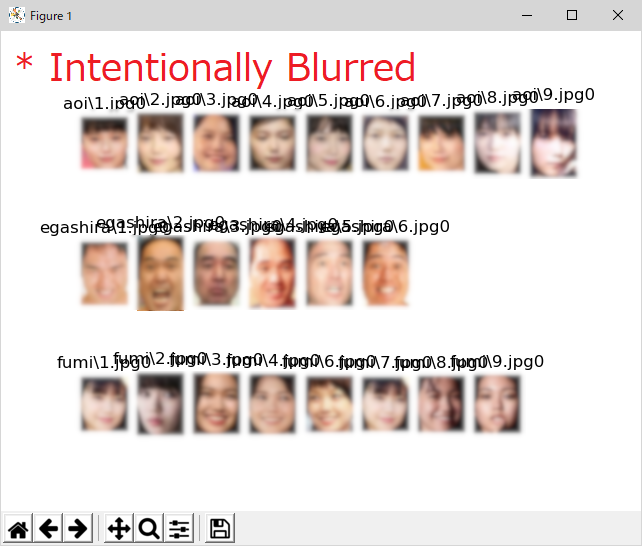
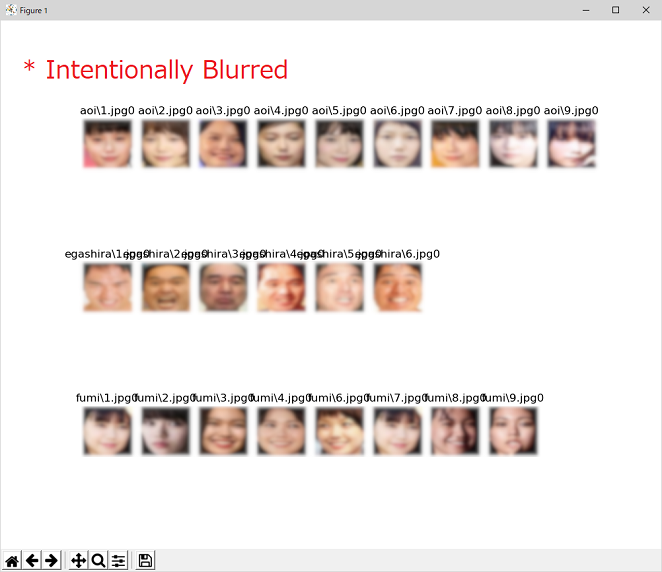
changed display size of db window

diff --git a/face-feature-visualization.py b/face-feature-visualization.py
@@ -69,11 +69,12 @@ def displayFacesInDB(face_db):
     for person in face_db:
         if len(person)>max_faces:
             max_faces = len(person)
-    plt.figure()
+    plt.figure(figsize=(10,8))
     for row, person in enumerate(face_db):
         for col, face in enumerate(person):
             plt.subplot(num_people, max_faces, row*max_faces+col+1)
             img = cv2.cvtColor(face['img'], cv2.COLOR_BGR2RGB)
+            img = cv2.resize(img, (100,100))
             plt.imshow(img)
             plt.title(face['name'], fontdict={'family':'TakaoGothic'})
             plt.axis('off')
